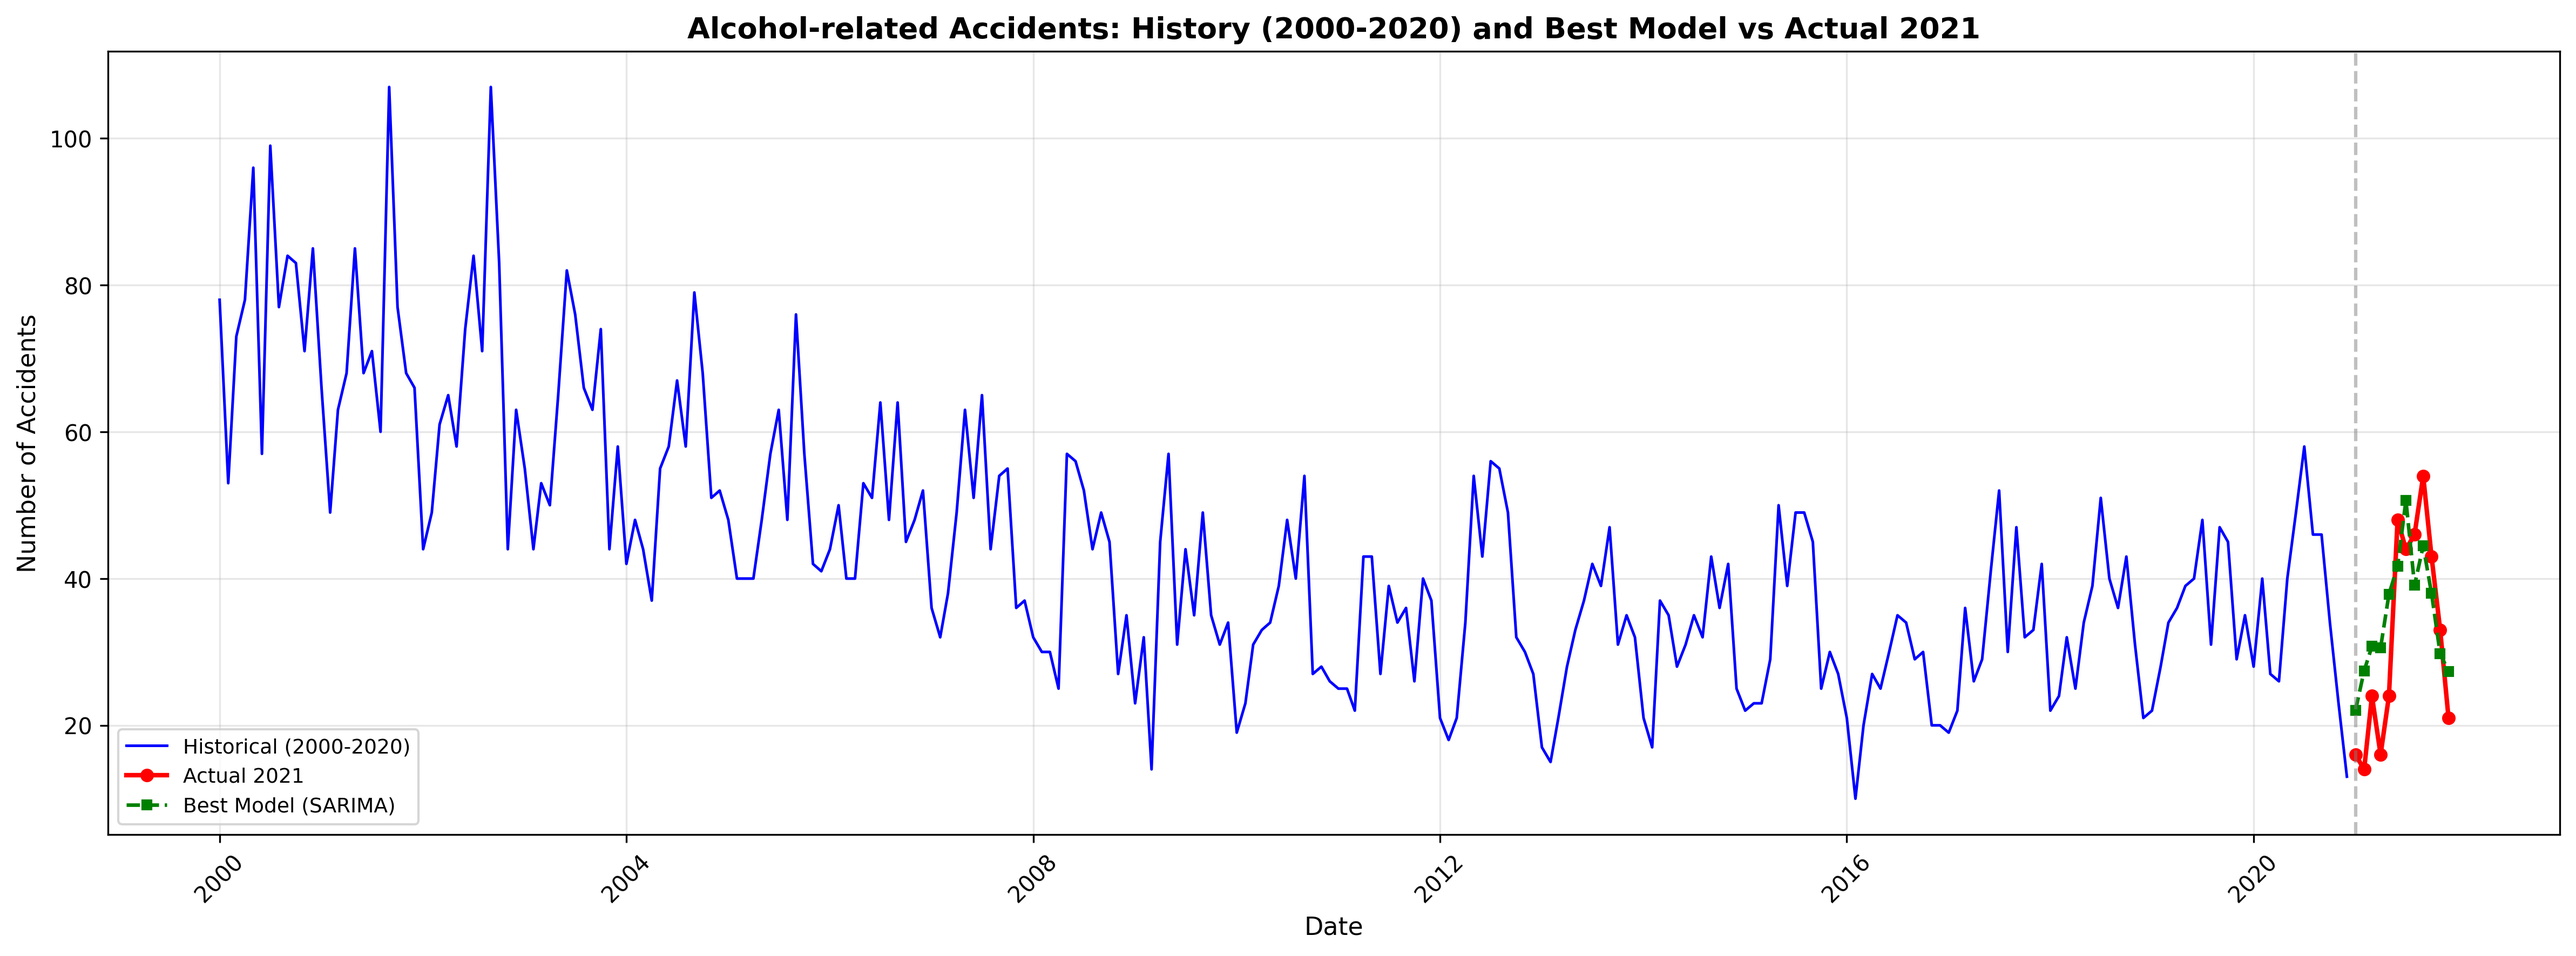
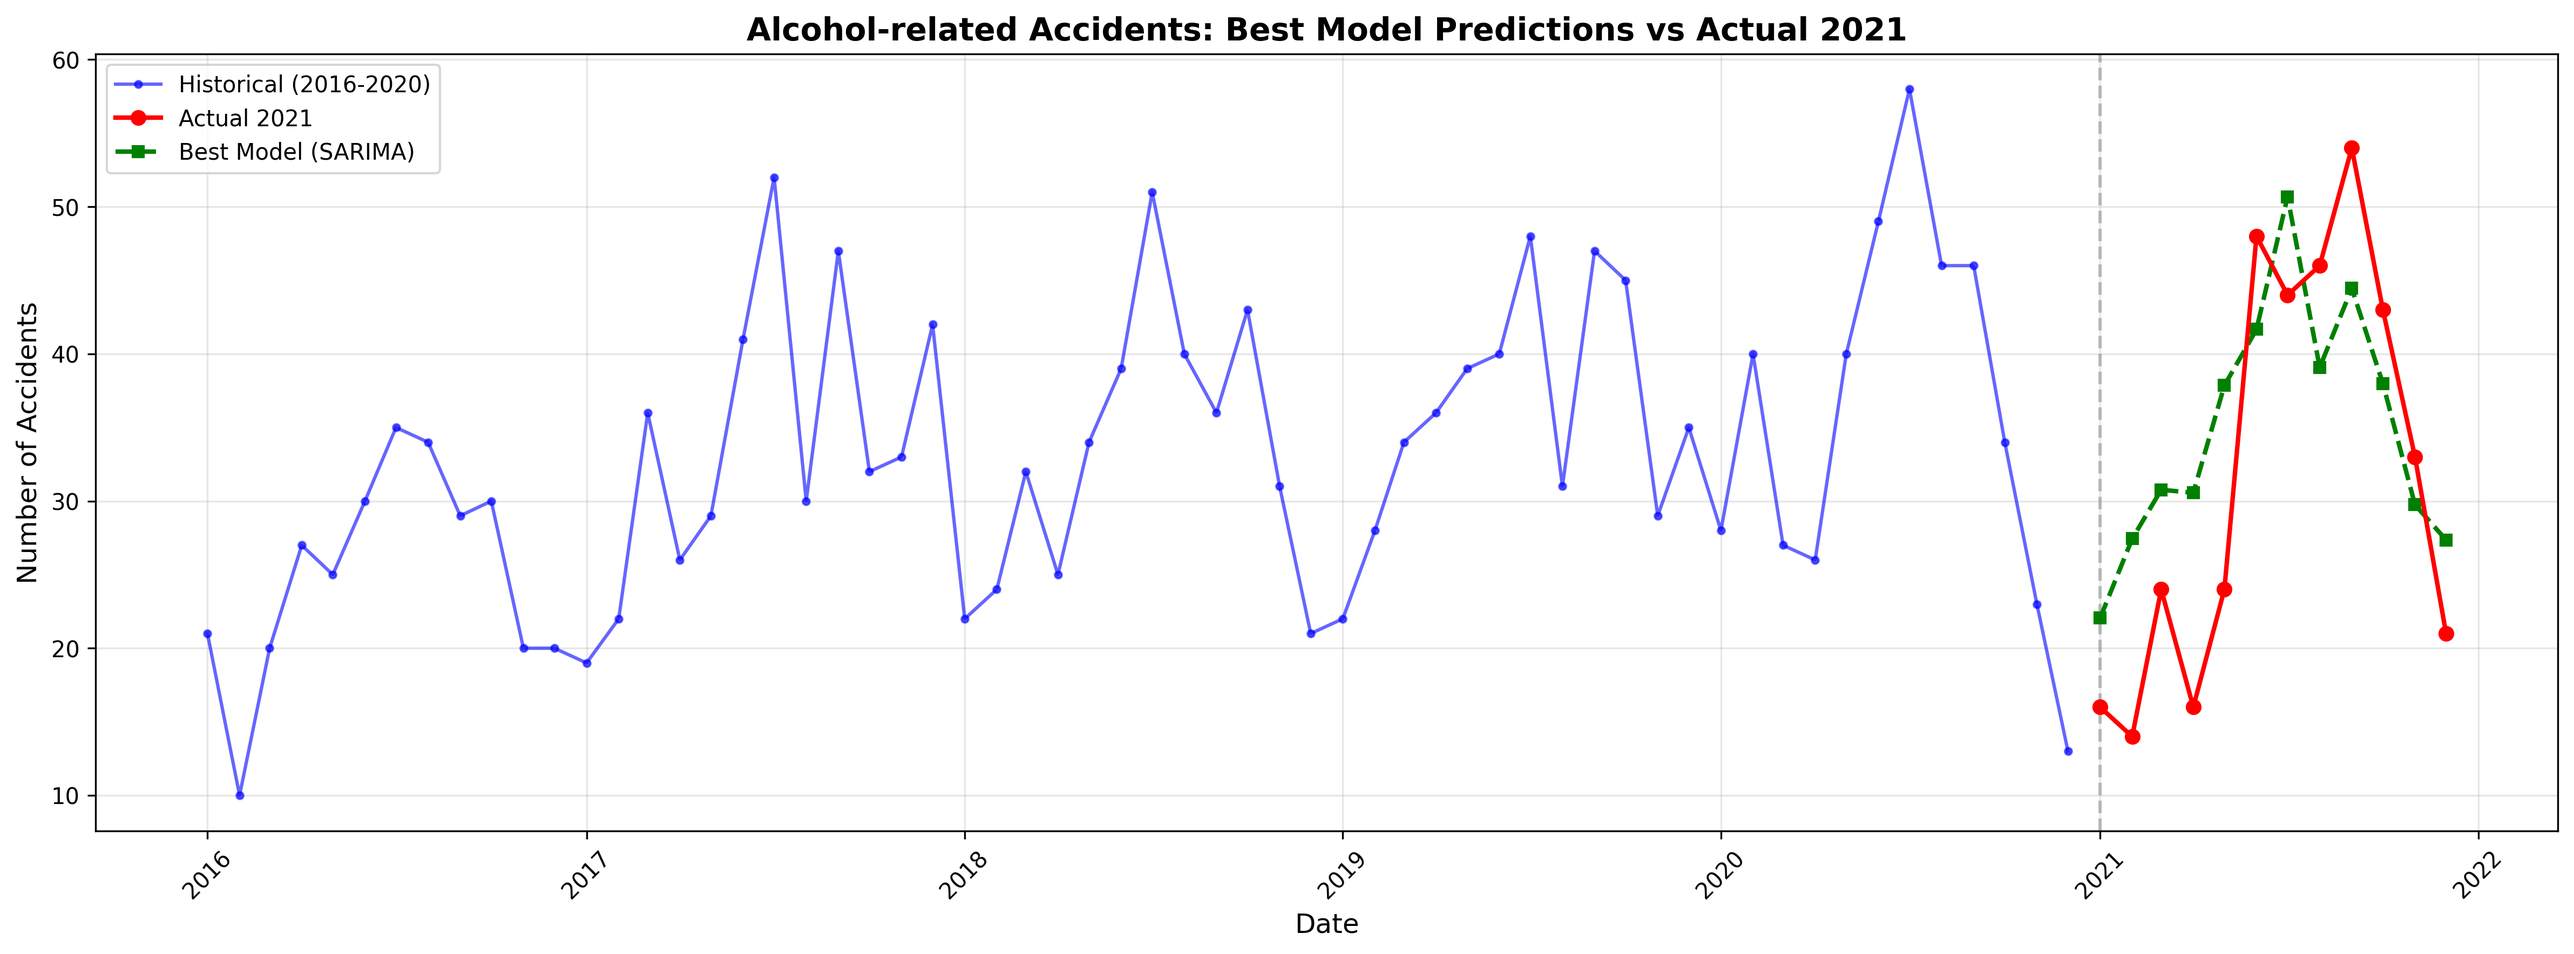
delete SARIMA Optimized

diff --git a/select_predict_model.py b/select_predict_model.py
@@ -92,23 +92,10 @@ except Exception as e:
     print(f"   Model failed: {e}")
     sarima_predictions = None
 
-# Model 4: SARIMA with optimized parameters
-print("4. SARIMA(2,1,2)(1,1,1,12) Model (Optimized)")
-try:
-    sarima_opt_model = SARIMAX(ts_data, order=(2, 1, 2), seasonal_order=(1, 1, 1, 12))
-    sarima_opt_fitted = sarima_opt_model.fit(disp=False)
-    sarima_opt_forecast = sarima_opt_fitted.forecast(steps=n_forecast)
-    sarima_opt_predictions = sarima_opt_forecast.values
-    print(f"   Model fitted successfully")
-    print(f"   All 12 months: {sarima_opt_predictions.round(2)}")
-except Exception as e:
-    print(f"   Model failed: {e}")
-    sarima_opt_predictions = None
-
-# Model 5: Prophet
+# Model 4: Prophet
 prophet_predictions = None
 if PROPHET_AVAILABLE:
-    print("5. Prophet Model (Facebook)")
+    print("4. Prophet Model (Facebook)")
     try:
         prophet_df = train_df[['date', 'WERT']].copy()
         prophet_df.columns = ['ds', 'y']
@@ -148,8 +135,6 @@ if arima_predictions is not None:
     models['ARIMA'] = arima_predictions
 if sarima_predictions is not None:
     models['SARIMA'] = sarima_predictions
-if sarima_opt_predictions is not None:
-    models['SARIMA_Optimized'] = sarima_opt_predictions
 if prophet_predictions is not None:
     models['Prophet'] = prophet_predictions
 
@@ -188,20 +173,24 @@ for model_name, predictions in models.items():
 print("-" * 80)
 print(f"\nBest Model: {best_model}")
 
-# Best model visualization (full history 2000-2020 + best prediction vs actual 2021)
+# Best model visualization (recent history 2016-2020 + best prediction vs actual 2021)
 if best_model is not None:
     best_preds = models[best_model]
     fig_best, ax_best = plt.subplots(figsize=(16, 6))
-    ax_best.plot(train_df['date'], train_df['WERT'], 'b-', linewidth=1.2, label='Historical (2000-2020)')
-    ax_best.plot(truth_df['date'], actual_values, 'ro-', markersize=5, linewidth=2, label='Actual 2021')
-    ax_best.plot(truth_df['date'], best_preds, 'gs--', markersize=4, linewidth=1.6, label=f'Best Model ({best_model})')
+
+    # Only show recent historical data (2016-2020) for better clarity
+    historical_recent = train_df[train_df['date'] >= '2016-01-01']
+    ax_best.plot(historical_recent['date'], historical_recent['WERT'], 'b-o',
+                 markersize=3, alpha=0.6, linewidth=1.5, label='Historical (2016-2020)')
+    ax_best.plot(truth_df['date'], actual_values, 'ro-', markersize=6, linewidth=2, label='Actual 2021', zorder=5)
+    ax_best.plot(truth_df['date'], best_preds, 'gs--', markersize=5, linewidth=2, label=f'Best Model ({best_model})', zorder=4)
     ax_best.axvline(x=pd.to_datetime('2021-01-01'), color='gray', linestyle='--', alpha=0.5)
-    ax_best.set_xlabel('Date', fontsize=11)
-    ax_best.set_ylabel('Number of Accidents', fontsize=11)
-    ax_best.set_title('Alcohol-related Accidents: History (2000-2020) and Best Model vs Actual 2021',
-                      fontsize=13, fontweight='bold')
+    ax_best.set_xlabel('Date', fontsize=12)
+    ax_best.set_ylabel('Number of Accidents', fontsize=12)
+    ax_best.set_title('Alcohol-related Accidents: Best Model Predictions vs Actual 2021',
+                      fontsize=14, fontweight='bold')
     ax_best.grid(True, alpha=0.3)
-    ax_best.legend(loc='best', fontsize=9)
+    ax_best.legend(loc='best', fontsize=10)
     ax_best.tick_params(axis='x', rotation=45)
     plt.tight_layout()
     plt.savefig('prediction/best_model_vs_actual.png', dpi=300, bbox_inches='tight')

diff --git a/README.md b/README.md
@@ -63,7 +63,6 @@ Multiple time series models were evaluated:
 - Linear Regression (Trend + Seasonality)
 - ARIMA(1,1,1)
 - **SARIMA(1,1,1)(1,1,1,12)** ✓ Best performing
-- SARIMA(2,1,2)(1,1,1,12) Optimized
 - Prophet (Facebook)
 
 ### Best Model Performance
